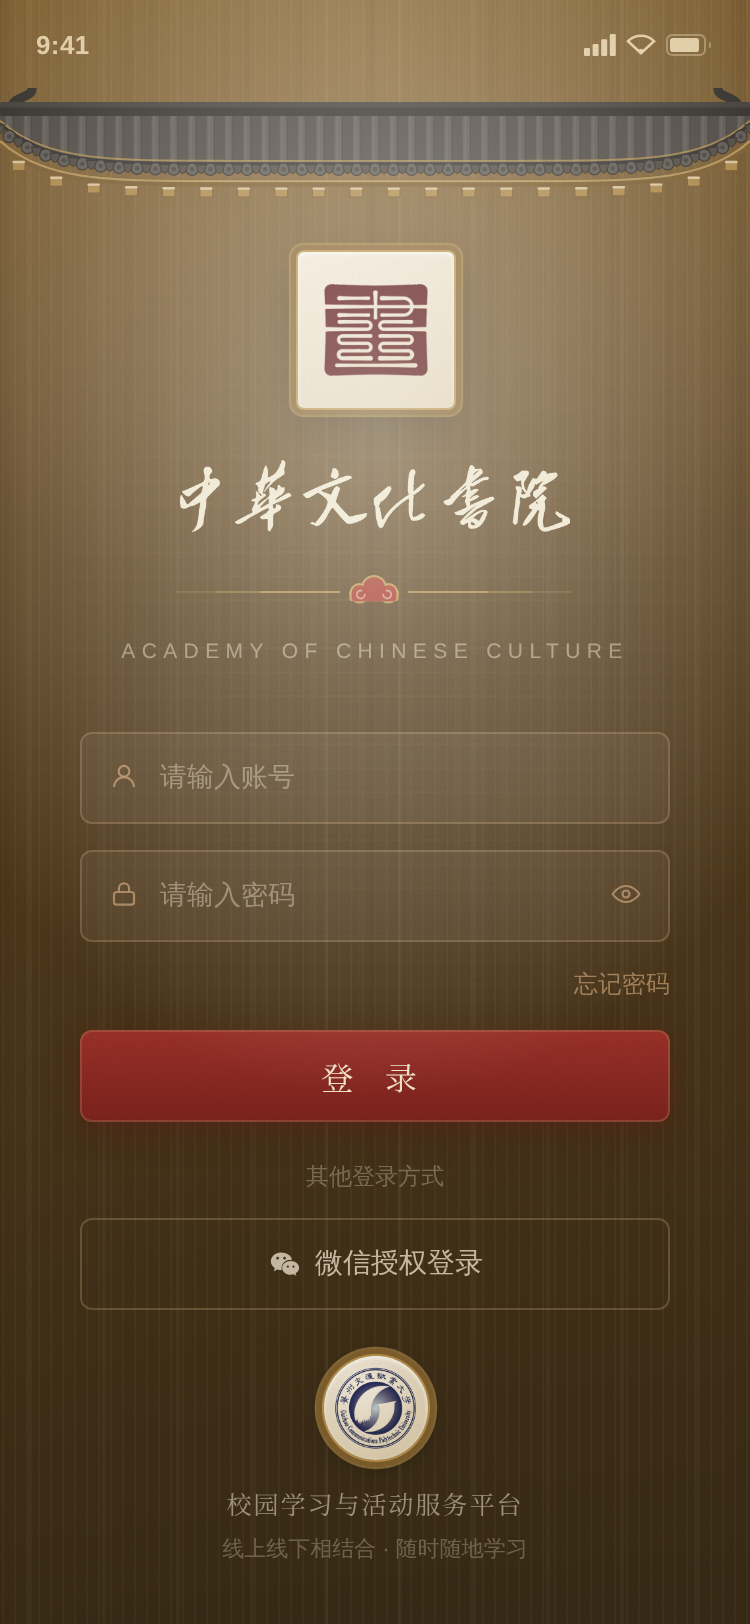
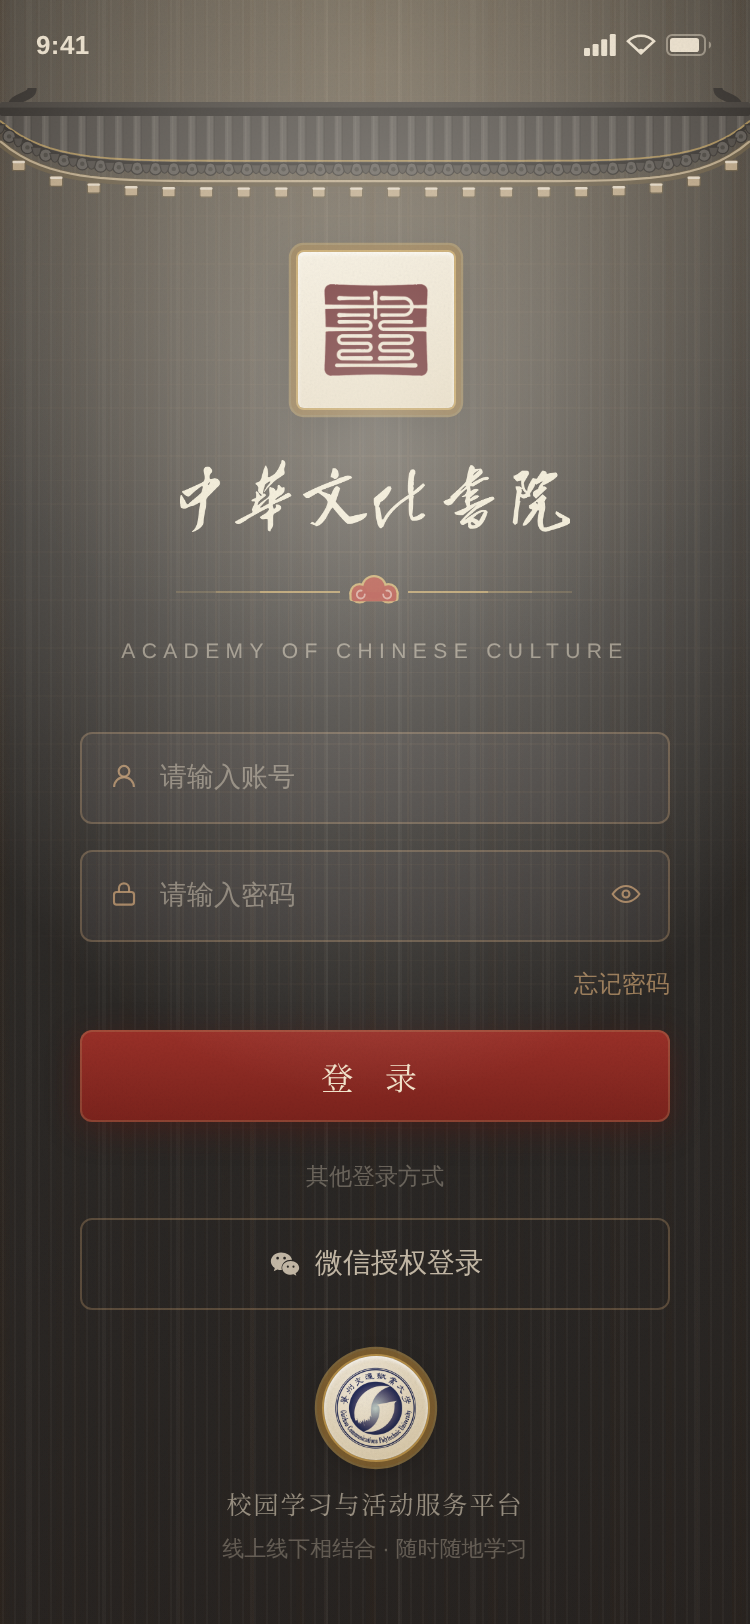
fix(design): 换配方——浅原木做框、墨做深色面，不再用大面积棕
甲方连着三轮说"木色看不出变化/还是老气"，前两轮我都只在色相上挪
（25°→34°→38°），面积和明度没动，所以确实没什么区别。这次换的是配方。

「老气」的真正配方是：深 + 高饱和 + 偏红 + 铺大面。对应四条都改：

1 木色：明度从 48% 提到 64%，饱和度从 42% 压到 28%，
  得到浅原木/白橡那种质地，而不是红木家具。

2 木头不再铺大面，只做框、线、小件（裱边、包角、上下枋、椽头）。

3 新增一条「墨」色阶，所有大面积深色一律走它：首图、文章首图、
  展馆封面、匾额、登录页、缩略图画心。深棕铺满是老家具，
  墨配纸、配朱砂、配细金线才是当代中式。

4 匾额改成黑漆金字——书院祠堂的匾本来就是这个规制，比棕木匾大气得多，
  金也因此分两档：细线用暗金 --gold，匾上的字用亮金 --gold-lit。

附带：
· 展馆三色原来蓝绿饱和度高出一大截，像三张不同来源的图。
  现在统一到与墨同级的明度，只在色相上各偏一点（墨/黛青/苔绿），并收进令牌。
· 瓦色往青挪一档，和暖墨拉开。
· 包角在墨底上反差过大，缩小压暗，回到「护角」而不是装饰块。

护栏当场抓到一处：我给匾额金字写死了 #E6C77C，check:design-tokens 直接报错，
已改为 --gold-lit。这条护栏上一轮刚加，这轮就兑现了。

深色面换墨之后对比度大幅改善（同一批文字）：
首图标题 4.13 → 8.98，馆名 4.13 → 8.98，匾额金字 5.11 → 8.59。
preflight:local 退出码 0。

Claude-Session: https://claude.ai/code/session_01JpdC71poBgzCMJ9jsM6B8r

diff --git a/design/demo/v2/shuyuan.css b/design/demo/v2/shuyuan.css
@@ -18,26 +18,42 @@
   --paper-card: #FBF7EF;   /* 卡片：更亮一档的纸 */
   --paper-sunk: #EAE2D0;   /* 凹陷/分隔 */
 
-  /* ══ 木 · 金丝楠色阶 ══════════════════════════════════════
-     这是整个小程序的主体色，全站每一处木面都必须从这里取，不许再写死。
-     之前两轮"换了木色却看不出变化"，原因就是大面积的首图、匾额、展馆封面、
-     登录页全是写死的十六进制，根本没走这组变量。
-     色相钉在 38° 左右：咖啡/胡桃是 25° 上下，偏红；金丝楠偏黄，这一条是分水岭。 */
-  --wood-05:    #FAF3E4;
-  --wood-10:    #F1E4C9;
-  --wood-20:    #E3CFA6;
-  --wood-30:    #D3B681;
-  --wood-40:    #C19E62;
-  --wood-50:    #AC8747;   /* 木面主色 */
-  --wood-60:    #927038;
-  --wood-70:    #78592B;
-  --wood-80:    #5E4520;
-  --wood-85:    #513A1B;
-  --wood-90:    #443218;
-  --wood-95:    #332714;
+  /* ══ 木 · 浅原木色阶 ══════════════════════════════════════
+     全站每一处木面都必须从这里取，不许再写死。
+
+     "老气"的根源不是饱和度，是**大面积的中深棕**本身——深 + 高饱和 + 偏红，
+     就是老家具的配方。前几轮我只在色相上挪（25°→38°），面积和明度没动，
+     所以看着几乎没变。这一版换的是配方：
+       · 明度整体提一大截（主色 L 从 48% 提到 64%）
+       · 饱和度从 42% 压到 28%，往中性走
+       · 木头只做**框、线、小件**，不再铺大面
+     结果是浅原木/白橡那种质地，而不是红木家具。 */
+  --wood-05:    #FCF8F1;
+  --wood-10:    #F5EDE0;
+  --wood-20:    #EADFCB;
+  --wood-30:    #DCCCB0;
+  --wood-40:    #CBB795;
+  --wood-50:    #B9A383;   /* 木面主色 */
+  --wood-60:    #9E8A6C;
+  --wood-70:    #7F6E55;
+  --wood-80:    #635640;
+  --wood-85:    #554932;
+  --wood-90:    #463C2B;
+  --wood-95:    #352E21;
+
+  /* ══ 墨 · 深色面 ══════════════════════════════════════════
+     大面积的深色一律走这里，不再用棕。
+     深棕铺满就是老家具；墨（带一点暖的炭色）配纸、配朱砂、配细金线，
+     才是当代中式那种"大气"。匾额也归它——书院祠堂的匾本来就是黑漆金字。 */
+  --mo-40:      #6E6A62;
+  --mo-50:      #5A564E;
+  --mo-60:      #494540;
+  --mo-70:      #3A3733;
+  --mo-80:      #2E2B28;
+  --mo-90:      #232120;
 
   /* 语义别名：组件只用这五个，换木种时只动上面的色阶 */
-  --wood-dark:  var(--wood-70);   /* 文字、细线：要保证在纸上的对比度 */
+  --wood-dark:  var(--wood-80);   /* 文字、细线：要保证在纸上的对比度 */
   --wood:       var(--wood-50);   /* 木面主色 */
   --wood-mid:   var(--wood-40);
   --wood-light: var(--wood-30);
@@ -50,10 +66,10 @@
 
   /* 瓦：黛瓦。屋顶本来就不是木头，给它自己的灰调，
      木构件（椽头、枋、匾）才衬得出来，整页也不再一片棕。 */
-  --tile:       #6A6560;
-  --tile-2:     #7D7772;
-  --tile-dark:  #494541;
-  --tile-hi:    #A29B94;
+  --tile:       #61696E;   /* 黛瓦：带一点青，和暖墨拉开 */
+  --tile-2:     #737C82;
+  --tile-dark:  #414951;
+  --tile-hi:    #99A2A8;
 
   /* —— 墨 —— */
   --ink:        #23262E;   /* 正文 */
@@ -70,7 +86,14 @@
   --zhu-soft:   rgba(168, 52, 42, .10);
   --seal-img:   url('../../brand/logo/extracted/seal-maroon.png');
 
-  --gold:       #C0994E;   /* 只用于 1px 描边，不做面 */
+  --gold:       #C8A45C;   /* 细线、描边 */
+  --gold-lit:   #E6C77C;   /* 黑漆匾上的金字，需要更亮才压得住墨底 */
+
+  /* 展馆分类色：明度与墨同级，只在色相上各偏一点，避免三张封面像来自三个地方 */
+  --hall-qing:   #4C5D68;
+  --hall-qing-d: #262F36;
+  --hall-lv:     #4A5A4C;
+  --hall-lv-d:   #242E27;
   --line:       rgba(107, 67, 38, .22);
   --line-soft:  rgba(107, 67, 38, .12);
 
@@ -86,18 +109,30 @@
   --paper:      #EFEDE4;
   --paper-card: #FAF8F2;
   --paper-sunk: #E4E1D5;
-  --wood-05:    #F2F6F9;
-  --wood-10:    #D9E6EF;
-  --wood-20:    #B9D0E0;
-  --wood-30:    #93B4CB;
-  --wood-40:    #6E96B3;
-  --wood-50:    #4F7A9B;
-  --wood-60:    #3E6182;
-  --wood-70:    #314D69;
-  --wood-80:    #24384B;
-  --wood-85:    #1F3040;
-  --wood-90:    #1A2938;
-  --wood-95:    #131F2B;
+  --wood-05:    #F6FAFC;
+  --wood-10:    #E7F0F6;
+  --wood-20:    #D2E2EC;
+  --wood-30:    #B6CDDC;
+  --wood-40:    #96B4C8;
+  --wood-50:    #7A9CB4;
+  --wood-60:    #62839B;
+  --wood-70:    #4C6980;
+  --wood-80:    #3A5164;
+  --wood-85:    #314455;
+  --wood-90:    #283847;
+  --wood-95:    #1E2B37;
+  --gold:       #B9A46C;
+  --gold-lit:   #DCC98E;
+  --hall-qing:   #4A5F6E;
+  --hall-qing-d: #24313A;
+  --hall-lv:     #4C5C58;
+  --hall-lv-d:   #26302E;
+  --mo-40:      #666B70;
+  --mo-50:      #53585D;
+  --mo-60:      #43484D;
+  --mo-70:      #363A3F;
+  --mo-80:      #2B2E32;
+  --mo-90:      #212427;
   --paper-1:    #F1F1EA;
   --paper-2:    #E7E7DC;
   --paper-3:    #D9D9CB;
@@ -431,7 +466,7 @@ body {
   height: 176px;
   display: flex; flex-direction: column; justify-content: flex-end;
   padding: 16px;
-  background: linear-gradient(165deg, var(--wood-90) 0%, var(--wood-70) 58%, var(--wood-60) 100%);
+  background: linear-gradient(165deg, var(--mo-90) 0%, var(--mo-70) 58%, var(--mo-60) 100%);
   border: none;
   color: var(--wood-05);
   box-shadow: inset 0 1px 0 rgba(255,240,220,.22), inset 0 -24px 40px rgba(40,24,10,.26);
@@ -560,10 +595,11 @@ body {
   margin-top: 14px;
   padding: 5px;
   border-radius: 7px;
-  background-color: var(--wood-60);
+  /* 黑漆金字匾：书院祠堂的匾本来就是这个规制，比棕木匾"大气"得多 */
+  background-color: var(--mo-70);
   background-image:
     var(--grain-h),
-    linear-gradient(180deg, var(--wood-50) 0%, var(--wood-70) 46%, var(--wood-85) 100%);
+    linear-gradient(180deg, var(--mo-60) 0%, var(--mo-80) 46%, var(--mo-90) 100%);
   box-shadow:
     0 4px 14px rgba(52,34,20,.26),
     inset 0 1px 0 rgba(233,203,158,.55),
@@ -575,7 +611,7 @@ body {
   box-shadow: 0 3px 12px rgba(20,38,54,.30), inset 0 1px 0 rgba(150,186,212,.28);
 }
 .plaque-inner {
-  border: 1px solid rgba(197,160,96,.55);
+  border: 1px solid rgba(214,178,108,.7);
   border-radius: 4px;
   padding: 11px 14px 12px;
   display: flex; align-items: center; gap: 11px;
@@ -584,7 +620,7 @@ body {
 /* 内框再套一根极细的线：双框是匾额和普通横幅的分水岭 */
 .plaque-inner::before {
   content: ''; position: absolute; inset: 2.5px;
-  border: 1px solid rgba(197,160,96,.22); border-radius: 2px;
+  border: 1px solid rgba(214,178,108,.3); border-radius: 2px;
   pointer-events: none;
 }
 /* 登录页那方"钤印的纸"：同样双重镶边，两处呼应 */
@@ -611,13 +647,13 @@ body {
 .plaque-seal { width: 23px; height: 23px; display: block; }
 .plaque-txt { flex: 1; min-width: 0; }
 .plaque-title {
-  font-size: 21px; color: var(--wood-10); letter-spacing: 6px; line-height: 1.2;
+  font-size: 21px; color: var(--gold-lit); letter-spacing: 6px; line-height: 1.2;
 }
 .plaque-sub {
-  font-size: 11px; color: rgba(242,227,194,.52);
+  font-size: 11px; color: rgba(230,199,124,.55);
   letter-spacing: 1.6px; margin-top: 5px;
 }
-.plaque-go { color: rgba(197,160,96,.85); flex: none; display: flex; }
+.plaque-go { color: rgba(214,178,108,.9); flex: none; display: flex; }
 
 /* ============ 横滑：展馆 ============ */
 .halls { display: flex; gap: 11px; overflow: hidden; margin-right: -16px; }
@@ -629,9 +665,11 @@ body {
   position: relative; overflow: hidden;
 }
 .hall-cover .hc-lattice { position: absolute; right: -14px; bottom: -14px; width: 76px; height: 76px; opacity: .55; }
-.h1 { background: linear-gradient(160deg, var(--wood-80), var(--wood-60)); }
-.h2 { background: linear-gradient(160deg, #345470, #4F7796); }
-.h3 { background: linear-gradient(160deg, #3F5D47, #5C8066); }
+/* 三个馆用同一个明度层级、只在色相上各偏一点：墨 / 黛青 / 苔绿。
+   原来那组蓝绿的饱和度高出一大截，摆在一起像三张不同来源的图。 */
+.h1 { background: linear-gradient(160deg, var(--mo-90), var(--mo-60)); }
+.h2 { background: linear-gradient(160deg, var(--hall-qing-d), var(--hall-qing)); }
+.h3 { background: linear-gradient(160deg, var(--hall-lv-d), var(--hall-lv)); }
 .hall-cover span { color: var(--wood-05); font-size: 15px; letter-spacing: 2px; position: relative; }
 .hall-cover .shan { height: 72%; }
 .hall-name { font-size: 12.5px; color: var(--ink-2); margin-top: 7px; text-align: center; }
@@ -640,8 +678,8 @@ body {
 .ncard { display: flex; gap: 11px; padding: 11px; margin-bottom: 10px; }
 .nthumb {
   width: 100%; height: 100%;
-  background-color: var(--wood);
-  background-image: var(--grain-v), linear-gradient(145deg, var(--wood-mid), var(--wood-dark));
+  background-color: var(--mo-70);
+  background-image: var(--grain-v), linear-gradient(145deg, var(--mo-60), var(--mo-90));
   display: flex; align-items: center; justify-content: center;
   color: rgba(250,242,226,.62); font-size: 20px;
   box-shadow: inset 0 1px 0 rgba(255,240,220,.22), inset 0 -2px 6px rgba(40,24,10,.22);
@@ -681,11 +719,11 @@ body {
 .login {
   min-height: 812px;
   /* 深色也是木头：老木色 + 真木纹 + 一点灯光感，而不是一块深棕色 */
-  background-color: var(--wood-70);
+  background-color: var(--mo-80);
   background-image:
     radial-gradient(120% 62% at 50% 4%, rgba(236,201,142,.24) 0%, transparent 60%),
     var(--grain-v-soft),
-    linear-gradient(175deg, var(--wood-70) 0%, var(--wood-85) 44%, var(--wood-95) 100%);
+    linear-gradient(175deg, var(--mo-60) 0%, var(--mo-80) 44%, var(--mo-90) 100%);
   display: flex; flex-direction: column; align-items: center;
   position: relative; overflow: hidden;
 }
@@ -782,7 +820,7 @@ body {
 
 .art-hero {
   margin: 0 16px; height: 186px; border-radius: var(--r);
-  background: linear-gradient(165deg, var(--wood-90) 0%, var(--wood-70) 58%, var(--wood-60) 100%);
+  background: linear-gradient(165deg, var(--mo-90) 0%, var(--mo-70) 58%, var(--mo-60) 100%);
   display: flex; align-items: flex-end; padding: 18px;
   box-shadow: inset 0 1px 0 rgba(255,240,220,.22), inset 0 -26px 44px rgba(40,24,10,.26);
   position: relative; overflow: hidden;
@@ -833,7 +871,7 @@ body {
 .art-fig .fig-box i {
   display: flex; align-items: center; justify-content: center;
   height: 100%; border-radius: 3px; font-style: normal;
-  background: linear-gradient(150deg, var(--wood-70), var(--wood-90));
+  background: linear-gradient(150deg, var(--mo-60), var(--mo-90));
   color: rgba(246,238,223,.45); font-size: 12px;
   box-shadow: inset 0 2px 6px rgba(20,14,6,.45), inset 0 0 0 1px rgba(107,67,38,.35);
 }
